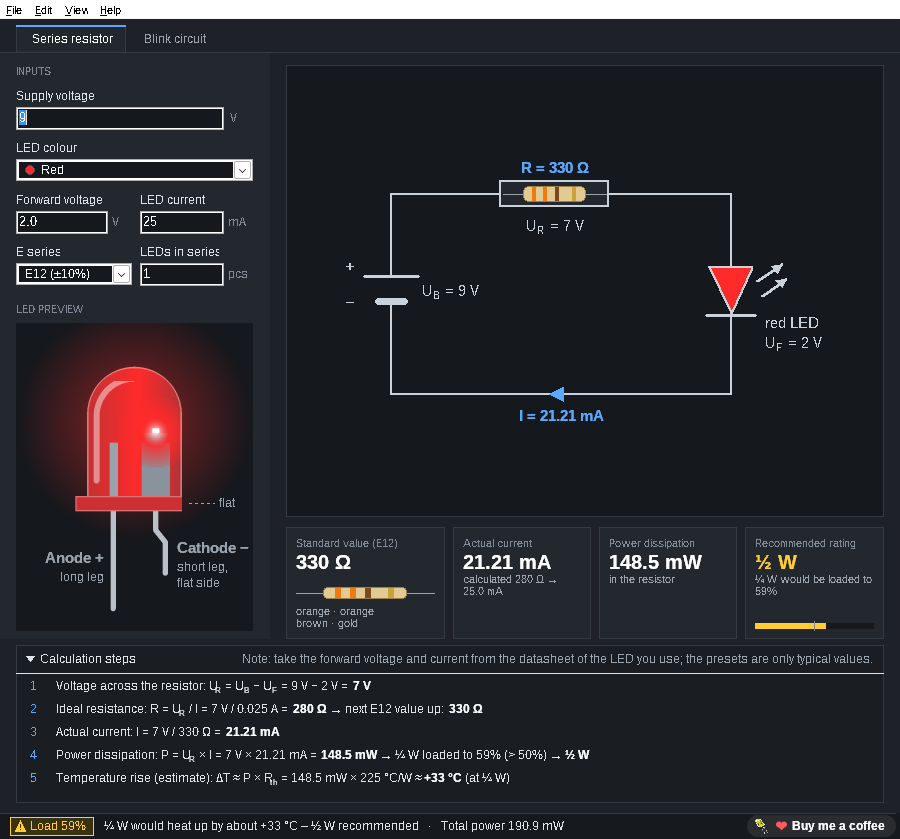
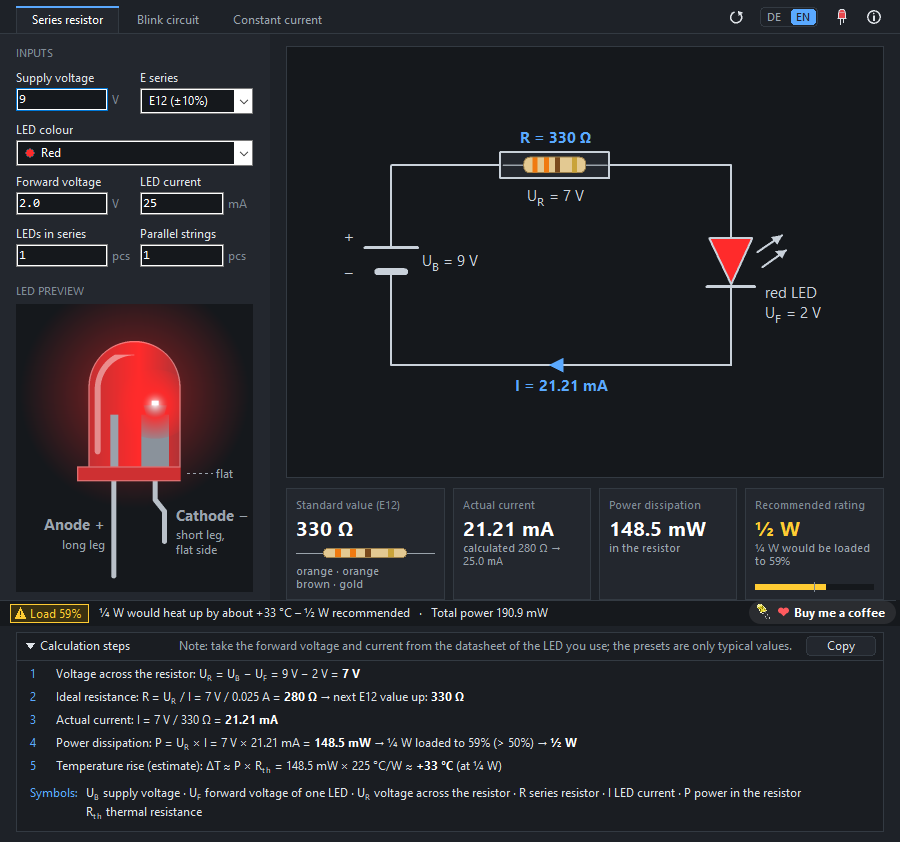
Projektseite 2.4: neue Windows-Bilder ohne Menüleiste, Abschnitt Konstantstrom

diff --git a/site/index.html b/site/index.html
@@ -94,7 +94,7 @@
     </ul>
     <figure class="shot hero-shot">
       <div class="bar"><img src="img/icon-32.png" alt=""><span>LedPreResistor · Elospeed 2.4</span><i class="min"></i><i class="max"></i><i class="cls"></i></div>
-      <img src="img/ledpreresistor-main-en.png" width="900" height="839" alt="LedPreResistor main window: 12 V supply, white LED, 20 mA. Schematic with 470 ohm resistor, colour bands yellow violet brown gold, 18.72 mA, 164.8 mW, recommended size half a watt, and the calculation step by step">
+      <img src="img/ledpreresistor-main-en.png" width="900" height="842" alt="LedPreResistor main window: 12 V supply, white LED, 20 mA. Schematic with 470 ohm resistor, colour bands yellow violet brown gold, 18.72 mA, 164.8 mW, recommended size half a watt, and the calculation step by step">
     </figure>
     <figcaption>English and German interface: it follows your Windows language, and the DE/EN switch at the top right changes it at any time.</figcaption>
   </div>
@@ -131,7 +131,7 @@
     </div>
     <figure class="shot">
       <div class="bar"><img src="img/icon-32.png" alt=""><span>LedPreResistor · Elospeed 2.4</span><i class="min"></i><i class="max"></i><i class="cls"></i></div>
-      <img src="img/ledpreresistor-warning-en.png" width="900" height="839" alt="LedPreResistor with 9 V, red LED, 25 mA: 330 ohm, 148.5 mW, a quarter watt resistor would be 59 percent loaded, the status bar shows a yellow warning and recommends half a watt" loading="lazy">
+      <img src="img/ledpreresistor-warning-en.png" width="900" height="842" alt="LedPreResistor with 9 V, red LED, 25 mA: 330 ohm, 148.5 mW, a quarter watt resistor would be 59 percent loaded, the status bar shows a yellow warning and recommends half a watt" loading="lazy">
     </figure>
   </div>
 </section>
@@ -152,7 +152,7 @@
     </div>
     <figure class="shot">
       <div class="bar"><img src="img/icon-32.png" alt=""><span>LedPreResistor · Elospeed 2.4</span><i class="min"></i><i class="max"></i><i class="cls"></i></div>
-      <img src="img/ledpreresistor-blink-en.png" width="900" height="839" alt="LedPreResistor blink circuit tab: NE555 astable with R1 1 kilohm, R2 68 kilohm and 10 microfarad at 12 V, 1.05 Hz, 50.4 percent duty cycle, series resistor 390 ohm for a white LED, schematic and calculation steps" loading="lazy">
+      <img src="img/ledpreresistor-blink-en.png" width="900" height="842" alt="LedPreResistor blink circuit tab: NE555 astable with R1 1 kilohm, R2 68 kilohm and 10 microfarad at 12 V, 1.05 Hz, 50.4 percent duty cycle, series resistor 390 ohm for a white LED, schematic and calculation steps" loading="lazy">
     </figure>
   </div>
 </section>
@@ -172,7 +172,7 @@
     </div>
     <figure class="shot">
       <div class="bar"><img src="img/icon-32.png" alt=""><span>LedPreResistor · Elospeed 2.4</span><i class="min"></i><i class="max"></i><i class="cls"></i></div>
-      <img src="img/ledpreresistor-ksq-en.png" width="900" height="839" alt="LedPreResistor constant current tab: LM317 as current source for two white LEDs at 20 mA, supply 12 to 14.4 V, sense resistor, schematic and calculation steps" loading="lazy">
+      <img src="img/ledpreresistor-ksq-en.png" width="900" height="842" alt="LedPreResistor constant current tab: LM317 as current source for two white LEDs at 20 mA, supply 12 to 14.4 V, sense resistor 68 ohm, 18.38 mA, schematic and calculation steps" loading="lazy">
     </figure>
   </div>
 </section>

diff --git a/site/de/index.html b/site/de/index.html
@@ -95,7 +95,7 @@
     </ul>
     <figure class="shot hero-shot">
       <div class="bar"><img src="../img/icon-32.png" alt=""><span>LedPreResistor · Elospeed 2.4</span><i class="min"></i><i class="max"></i><i class="cls"></i></div>
-      <img src="../img/ledpreresistor-main.png" width="900" height="839" alt="Hauptfenster von LedPreResistor: 12 V, weisse LED, 20 mA. Schaltplan mit 470-Ohm-Widerstand, Farbringe gelb violett braun gold, 18,72 mA, 164,8 mW, empfohlene Bauform ein halbes Watt, darunter der Rechenweg">
+      <img src="../img/ledpreresistor-main.png" width="900" height="842" alt="Hauptfenster von LedPreResistor: 12 V, weisse LED, 20 mA. Schaltplan mit 470-Ohm-Widerstand, Farbringe gelb violett braun gold, 18,72 mA, 164,8 mW, empfohlene Bauform ein halbes Watt, darunter der Rechenweg">
     </figure>
   </div>
 </section>
@@ -131,7 +131,7 @@
     </div>
     <figure class="shot">
       <div class="bar"><img src="../img/icon-32.png" alt=""><span>LedPreResistor · Elospeed 2.4</span><i class="min"></i><i class="max"></i><i class="cls"></i></div>
-      <img src="../img/ledpreresistor-warning.png" width="900" height="839" alt="LedPreResistor mit 9 V, roter LED, 25 mA: 330 Ohm, 148,5 mW, ein Viertelwatt-Widerstand wäre zu 59 Prozent ausgelastet, die Statuszeile warnt gelb und empfiehlt ein halbes Watt" loading="lazy">
+      <img src="../img/ledpreresistor-warning.png" width="900" height="842" alt="LedPreResistor mit 9 V, roter LED, 25 mA: 330 Ohm, 148,5 mW, ein Viertelwatt-Widerstand wäre zu 59 Prozent ausgelastet, die Statuszeile warnt gelb und empfiehlt ein halbes Watt" loading="lazy">
     </figure>
   </div>
 </section>
@@ -152,7 +152,7 @@
     </div>
     <figure class="shot">
       <div class="bar"><img src="../img/icon-32.png" alt=""><span>LedPreResistor · Elospeed 2.4</span><i class="min"></i><i class="max"></i><i class="cls"></i></div>
-      <img src="../img/ledpreresistor-blink.png" width="900" height="839" alt="LedPreResistor Reiter Blinkschaltung: NE555 astabil mit R1 1 Kiloohm, R2 68 Kiloohm und 10 Mikrofarad an 12 V, 1,05 Hz, Tastgrad 50,4 Prozent, Vorwiderstand 390 Ohm für eine weisse LED, Schaltplan und Rechenweg" loading="lazy">
+      <img src="../img/ledpreresistor-blink.png" width="900" height="842" alt="LedPreResistor Reiter Blinkschaltung: NE555 astabil mit R1 1 Kiloohm, R2 68 Kiloohm und 10 Mikrofarad an 12 V, 1,05 Hz, Tastgrad 50,4 Prozent, Vorwiderstand 390 Ohm für eine weisse LED, Schaltplan und Rechenweg" loading="lazy">
     </figure>
   </div>
 </section>
@@ -172,7 +172,7 @@
     </div>
     <figure class="shot">
       <div class="bar"><img src="../img/icon-32.png" alt=""><span>LedPreResistor · Elospeed 2.4</span><i class="min"></i><i class="max"></i><i class="cls"></i></div>
-      <img src="../img/ledpreresistor-ksq.png" width="900" height="839" alt="LedPreResistor Reiter Konstantstrom: LM317 als Stromquelle für zwei weisse LEDs mit 20 mA, Speisespannung 12 bis 14,4 V, Fühlerwiderstand, Schaltplan und Rechenweg" loading="lazy">
+      <img src="../img/ledpreresistor-ksq.png" width="900" height="842" alt="LedPreResistor Reiter Konstantstrom: LM317 als Stromquelle für zwei weisse LEDs mit 20 mA, Speisespannung 12 bis 14,4 V, Fühlerwiderstand 68 Ohm, 18,38 mA, Schaltplan und Rechenweg" loading="lazy">
     </figure>
   </div>
 </section>
